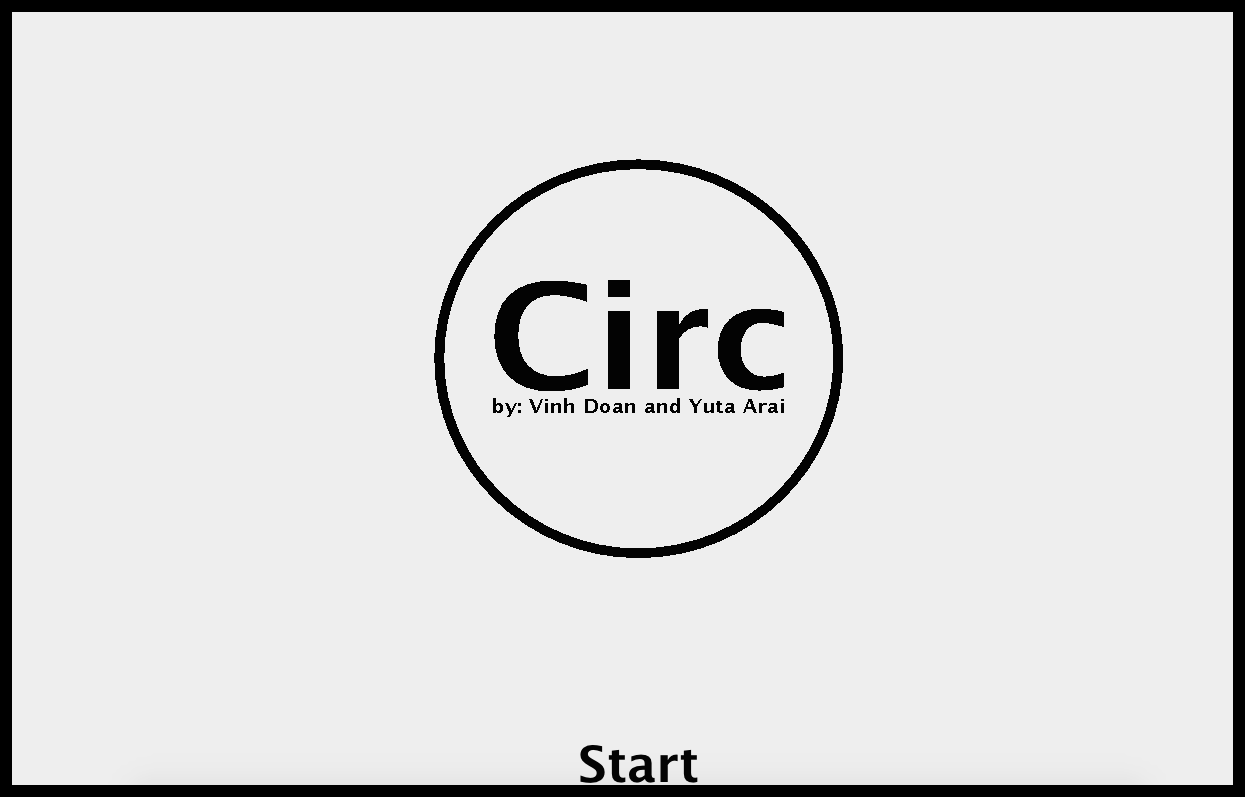
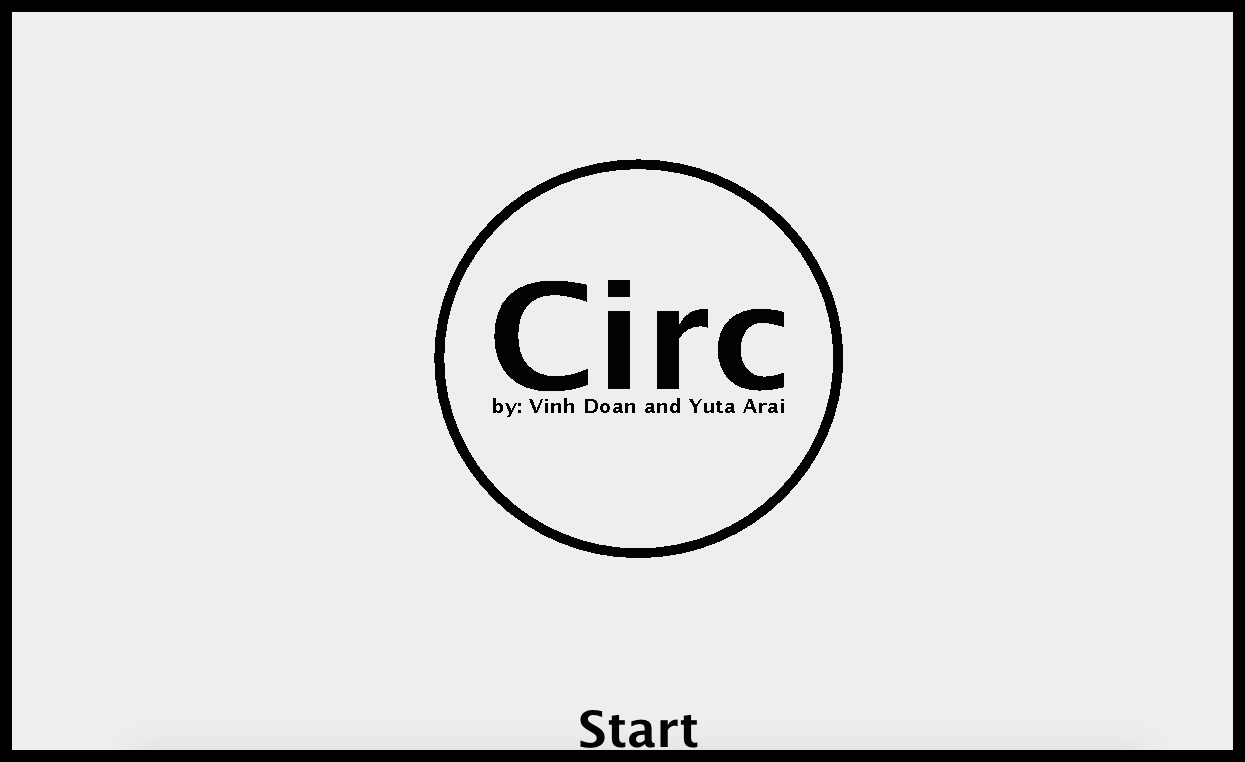
fixed scaling

diff --git a/index.html b/index.html
@@ -36,7 +36,7 @@
                 </div>
                 </a>
                 
-                <a title="Hello, nice to meet you!" class="tooltip">
+                <a title="Hello!" class="tooltip">
                 <div class="vinhBox">
                     <img src="/frontImages/vinh3.png" alt="vinhimage">
                 </div>
@@ -57,7 +57,7 @@
             <h4>&nbsp;PROJECTS</h4>
         </div>
     </div>
-    <center>
+    <center class="bottomBarCenter">
         <div class="bottomBar">
             <center>
                 <a href="https://github.com/vinhdoan1/"><img src="/frontImages/githublogo.png" alt="GitHub"></a>
@@ -72,38 +72,55 @@
     <p class="languagestext">Programming Languages: Java, C, C++, C#, JavaScript, Lua, Haskell, Python, SQL</p>
 
     <div class="GeomBox" id="projectBox">
-        Geom
-        <p>Geom is a reimagined version of the classic game of Snake. This retro, black and white styles game's basic premise is to keep your snake tail long enough under a certain amount of time. There is also Challenge Mode, which tests the player's snake ability through several different challenges with goals.</p>
+        <h7>Geom</h7>
+        <div class="ProjBoxRight">
+            <div class="videoWrapper">
             <iframe class="advideo" src="https://www.youtube.com/embed/FiuxziP5He8?rel=0&autoplay=0&loop=0&wmode=opaque" frameborder="0" allowfullscreen >
             </iframe>
+            </div>
             <img class="appstorelogo" src="/projectImages/Download_on_the_App_Store_Badge_US-UK_135x40.svg" alt="appstore" title="Currently Unavailible">
+                </div>
+        <p>Geom is a reimagined version of the classic game of Snake. This retro, black and white styles game's basic premise is to keep your snake tail long enough under a certain amount of time. There is also Challenge Mode, which tests the player's snake ability through several different challenges with goals.</p>
     </div>
 
     <div class="flapBox" id="projectBox">
-        2048 Flap
-        <p>Based on the two hit games, Flappy Birds and 2048, 2048 Flap combines both into one suspenseful, thinking game. The board is split into 2 sides, one for tapping and jumping your block, and the other for swiping to move the column of blocks up or down. Aim to the 2048 block, and go for the high score!
-        </p>
+        <h7>2048 Flap</h7>
+        <div class="ProjBoxRight">
+            <div class="videoWrapper">
             <iframe class="advideo" src="https://www.youtube.com/embed/UwTCabdNFL4?rel=0&autoplay=0&loop=0&wmode=opaque" frameborder="0" allowfullscreen >
             </iframe>
+            </div>
             <img class="appstorelogo" src="/projectImages/Download_on_the_App_Store_Badge_US-UK_135x40.svg" alt="appstore" title="Currently Unavailible">
+                </div>
+        <p>Based on the two hit games, Flappy Birds and 2048, 2048 Flap combines both into one suspenseful, thinking game. The board is split into 2 sides, one for tapping and jumping your block, and the other for swiping to move the column of blocks up or down. Aim to the 2048 block, and go for the high score!
+        </p>
+            
+        
+            
     </div>
     
     <div class="CircBox" id="projectBox">
-        Circ
-        <p>Based off the game TagPro, Circ takes the fun of childhood games such as Sharks and Minnows, and puts it into a local multiplayer game. Each player is a ball, and must outlast each of the other players. Developed in Java, and open sourced on <a href="https://github.com/vinhdoan1/Circ" target="_blank">GitHub!</a></p>
-
+        <h7>Circ</h7>
+        <div class="ProjBoxRight">
             <a href="https://github.com/vinhdoan1/Circ">
                 <img id="adpic" src="/projectImages/circpic.png" >
             </a>
+        </div>
+        <p>Based off the game TagPro, Circ takes the fun of childhood games such as Sharks and Minnows, and puts it into a local multiplayer game. Each player is a ball, and must outlast each of the other players. Developed in Java, and open sourced on <a href="https://github.com/vinhdoan1/Circ" target="_blank">GitHub!</a></p>
+            
     </div>
 
     <div class="musicQuizBox" id="projectBox" href="musicquiz/">
-        YouTube Music Quiz
-        <p>Built to aid myself and other students in a <a href="music17.html" target="_blank">music class</a>, this web app takes in user inputted YouTube video and playlist links, and randomizes them, choosing a random point of a video and playing the audio and testing the user knowledge of the videos. Open sourced on <a href="https://github.com/vinhdoan1/vinhdoan1.github.io/tree/master/musicquiz" target="_blank">GitHub!</a>
-        </p>
-             <a href="/musicquiz/">
+        <div class="ProjBoxRight">
+        <a href="/musicquiz/">
                 <img id="adpic" src="/projectImages/ytmusicquiz.png" >
             </a>
+        </div>
+        <h7>YouTube Music Quiz</h7>
+        
+        <p>Built to aid myself and other students in a <a href="music17.html" target="_blank">music class</a>, this web app takes in user inputted YouTube video and playlist links, and randomizes them, choosing a random point of a video and playing the audio and testing the user knowledge of the videos. Open sourced on <a href="https://github.com/vinhdoan1/vinhdoan1.github.io/tree/master/musicquiz" target="_blank">GitHub!</a>
+        </p>
+             
     </div>
     <script src="jquery-1.11.3.js"></script>
     <script src="app.js"></script>

diff --git a/main.css b/main.css
@@ -178,20 +178,15 @@ a {
     
 }
 
-.flapBox
-{
-    left: 50%;
-    position:absolute;
-}
 
 .flapBox, .musicQuizBox, .CircBox, .GeomBox
 {
-    font-size: 7vh;
+    font-size: 3.5vw;
     font-weight: 600;
     display: block;
     background-color: black;
     color: white;
-    width: 48%;
+    
     padding: 10px;
     position:absolute;
     top: 1%;
@@ -199,6 +194,12 @@ a {
     margin-bottom: 0px;
     height: 35%;
     line-height: 1;
+    width: 48%;
+}
+
+.flapBox h7, .musicQuizBox h7 , .CircBox h7, .GeomBox h7
+{
+    position: absolute;
 }
 
 .CircBox, .musicQuizBox
@@ -215,9 +216,9 @@ a {
 
 .GeomBox p, .flapBox p, .CircBox p, .musicQuizBox p
 {
-    font-size: 2.5vh;
+    font-size: 1.3vw;
     padding: 1px;
-    margin-bottom: 0px;
+    margin-top: 8%;
     width: 45%;    
 }
 
@@ -231,17 +232,18 @@ h1, .thirdBar, .fourthBar, .vinhBox img, .bottomBar,  .imageBoxes, .aboutmetext,
 
 .appstorelogo
 {
-    margin-top: -9%;
-    padding-left: 25%;
-    height: 6vh;
+    margin-top: 12px;
+    padding-left: 32%;
+    height: 2.5vw;
     display: block;
 }
 
 .advideo
 {
-    margin-top: -35%;
-    padding-left: 50%;
-    height:35vh;
+    position: absolute;
+    margin-top: 10px;
+    width: 100%;
+    height: auto;
 }
 
 .tooltip{
@@ -275,8 +277,35 @@ h1, .thirdBar, .fourthBar, .vinhBox img, .bottomBar,  .imageBoxes, .aboutmetext,
 {
     visibility: visible;
     display:block !important;
-    margin-top: -25%;
-    margin-left: 53%;
-    height:25vh;
-    width: 100;
+    margin-top: 15%;
+    margin-right: auto;
+    margin-left: auto;
+    width: 90%;
+}
+
+.ProjBoxRight
+{
+    position: relative;
+    float: right;
+    width: 50%;
+    margin-right: auto;
+    margin-left: auto;
+}
+
+.videoWrapper {
+	position: relative;
+	padding-bottom: 56.25%; /* 16:9 */
+	padding-top: 25px;
+    margin-right: auto;
+    margin-left: auto;
+}
+.videoWrapper iframe {
+	position: absolute;
+	top: 0;
+	left: 0;
+	width: 90%;
+	height: 100%;
+    margin-left: 5%;
+    
+
 }

diff --git a/mobile.css b/mobile.css
@@ -1,4 +1,11 @@
+html {
+    height: 100%;
+}
+
 body {
+    background: url("frontImages/bg.jpg") no-repeat fixed;
+    background-size: cover;
+    min-height: 100% !important;
 }
 
 h1 {
@@ -60,7 +67,7 @@ h1 {
     font-size: 14px;
     display: block;
     line-height: 1em;
-    width: 45%;
+    width: 44%;
     height: 25%;
 }
 
@@ -70,7 +77,7 @@ h1 {
 }
 
 .advideo {
-    margin-top: 2px;
+    margin-top: 10%;
     margin-left: -50%;
     width: 100%;
     height: 90%
@@ -115,6 +122,10 @@ h1 {
 .thirdBar, .fourthBar {
     font-size: 25px;
 }
+  
+.fourthBar {
+    margin-top: 11vh;
+}
     
 .aboutmetext
 {
@@ -142,3 +153,19 @@ a {
 .bottomBar img:hover, h3:hover, h4:hover {
     opacity: 1
 }
+
+
+.ProjBoxRight
+{
+    width: 100%;
+
+}
+
+.bottomBarCenter
+{
+    position: absolute;
+    bottom: 0;
+    width: 60%;
+    left: 20%;
+}
+

diff --git a/app.js b/app.js
@@ -36,7 +36,7 @@ var main = function () {
         });
 
         $('.flapBox').css({
-            "left": '52%'
+            "left": '51%'
         });
         
         $('.CircBox').css({
@@ -44,7 +44,7 @@ var main = function () {
         });
 
         $('.musicQuizBox').css({
-            "left": '52%'
+            "left": '51%'
         });
     }
 
@@ -119,7 +119,7 @@ var main = function () {
             }, speed);
 
             $('.flapBox').animate({
-                left: '52%'
+                left: '51%'
             }, speed);
             
             $('.CircBox').animate({
@@ -127,7 +127,7 @@ var main = function () {
             }, speed);
 
             $('.musicQuizBox').animate({
-                left: '52%'
+                left: '51%'
             }, speed);
 
             setTimeout(function () {
